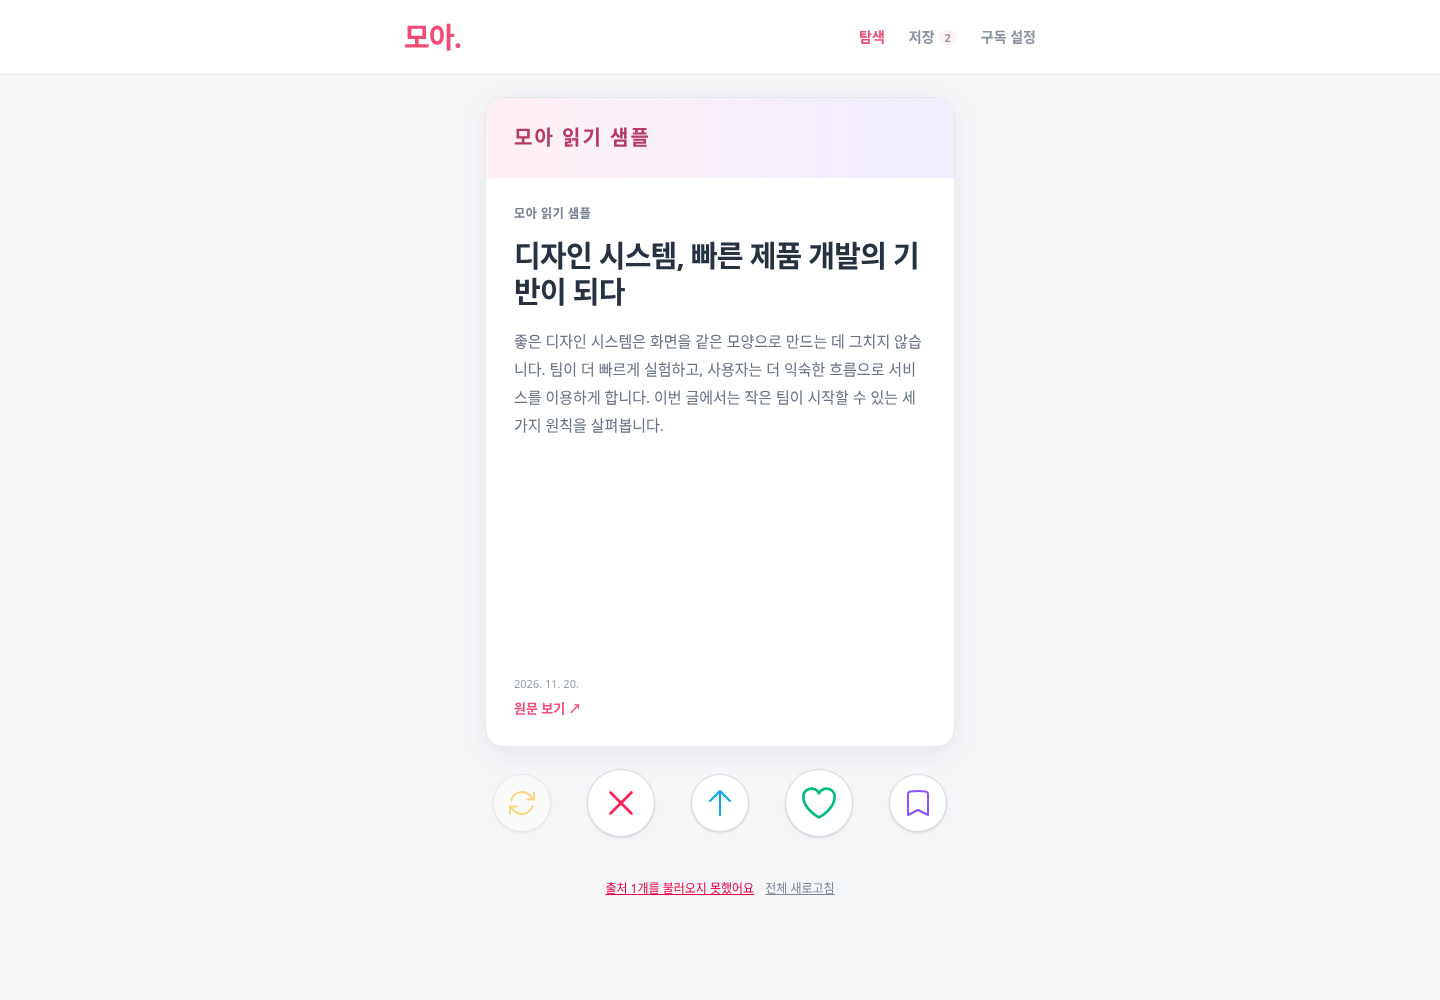
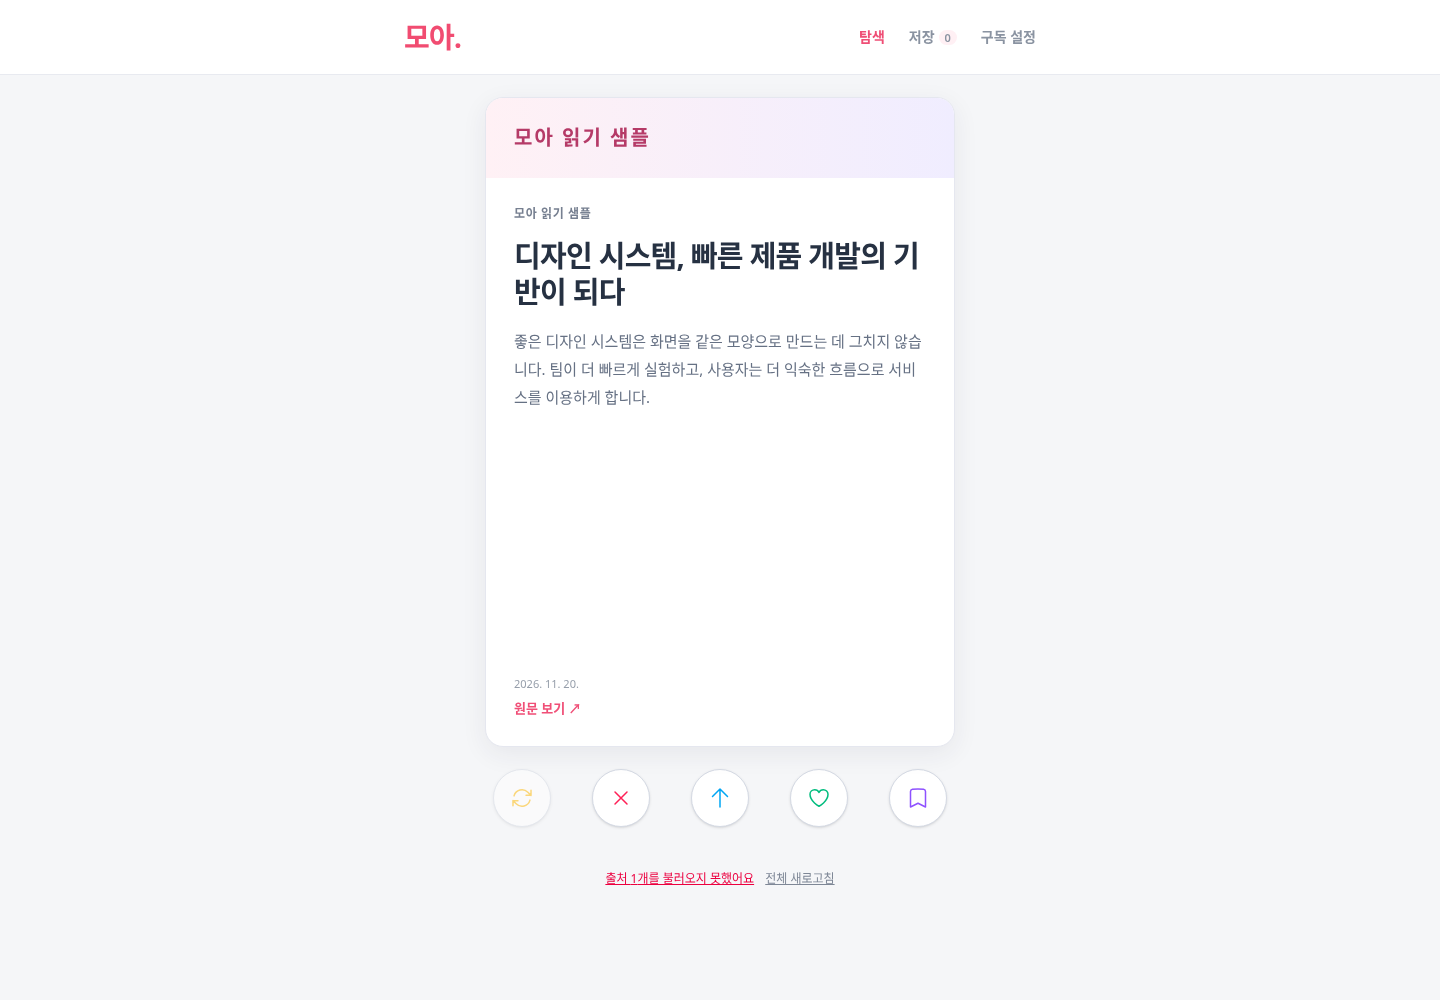
fix: align reader action sizes and document UI audit

diff --git a/apps/web/src/components/story-card.tsx b/apps/web/src/components/story-card.tsx
@@ -219,7 +219,6 @@ export function StoryCard() {
             icon: <XMarkIcon />,
             disabled: !story,
             color: "text-rose-500",
-            large: true,
             run: () => act("skip"),
           },
           {
@@ -234,7 +233,6 @@ export function StoryCard() {
             icon: liked ? <HeartSolid /> : <HeartIcon />,
             disabled: !story,
             color: liked ? "bg-emerald-500 text-white" : "text-emerald-500",
-            large: true,
             pressed: liked,
             run: () => {
               interest();
@@ -259,7 +257,7 @@ export function StoryCard() {
             disabled={a.disabled}
             onClick={a.run}
             variant="outline"
-            className={`size-12 shrink-0 rounded-full p-3 shadow-sm sm:size-[58px] ${a.large ? "size-[60px] sm:size-[68px]" : ""} ${a.color}`}
+            className={`size-12 min-w-0 shrink-0 rounded-full p-2 shadow-sm sm:size-[58px] sm:p-3 [&_svg]:size-6 ${a.color}`}
           >
             {a.icon}
           </Button>

diff --git a/apps/web/docs/review/issue-2/ui-design-audit.md b/apps/web/docs/review/issue-2/ui-design-audit.md
@@ -1,0 +1,54 @@
+# UI design audit
+
+Reviewed 2026-11-21 against the [complete visible catalog](https://www.uidesign.tips/ui-tips): **39 cards, 37 unique destination URLs, 38 distinct pieces of advice**. The alignment tip appears twice. “Visually Distinguish Elements” incorrectly links to Social Login; its advice is assessed from the catalog and linked there below. All 37 destinations were opened; relevant individual text was read. The retrieved index exposes no pagination/load-more control. Its “100+” marketing claim does not establish 100 audited tips; unlisted material is outside this inventory.
+
+These are contextual design heuristics, not universal requirements or an accessibility certification. **Meets** means the applicable advice is supported by inspected evidence; **Partial** identifies a remaining limitation; **Fails** identifies a concrete gap; **N/A** identifies an absent feature or unsuitable context.
+
+Evidence keys: **R** = [reader component](../../../src/components/story-card.tsx); **N** = [navigation](../../../src/components/shell.tsx); **S** = [settings](../../../src/app/settings/page.tsx); **L** = [saved list](../../../src/app/saved/page.tsx); **C** = [theme](../../../src/app/reader.css); **A** = [selected Blue v4 proposal](../../superpowers/specs/2026-11-21-reader-visual-refresh-proposal.md) and its [reference captures](README.md#blue-v4-design-proposal). A's local prototype is `.superpowers/brainstorm/114014-1795240300/content/reader-blue-redesign-v4.html`. The screenshot index separates implemented pink UI from A, which is **not integrated**. Refreshed implemented reader captures show the equal-size correction.
+
+| Catalog advice                                                                                            | Implemented | A prototype | Evidence / remaining issue                                                        |
+| --------------------------------------------------------------------------------------------------------- | ----------- | ----------- | --------------------------------------------------------------------------------- |
+| [Social Login](https://www.uidesign.tips/ui-tips/social-login)                                            | N/A         | N/A         | No authentication.                                                                |
+| [Design Better Menus](https://www.uidesign.tips/ui-tips/better-menus)                                     | Partial     | Meets       | N: text-only; A: icons, labels, selected route.                                   |
+| [The Gutenberg Principle](https://www.uidesign.tips/ui-tips/gutenburg-principle)                          | N/A         | N/A         | Sequential reader, not a conversion hero.                                         |
+| [Delete Modal](https://www.uidesign.tips/ui-tips/quick-ui-fixes)                                          | N/A         | N/A         | No deletion modal.                                                                |
+| [Align Uneven Elements / How to Align Uneven Items](https://www.uidesign.tips/ui-tips/align-unever-items) | Meets       | Meets       | R: five equal responsive circles after correction; A already equal.               |
+| [De-emphasize Dangerous Actions](https://www.uidesign.tips/ui-tips/de-emphasize-dangerous-actions)        | N/A         | N/A         | No irreversible deletion; skip supports undo.                                     |
+| [Always Have A CTA](https://www.uidesign.tips/ui-tips/hero-section-cta-1)                                 | N/A         | N/A         | Landing-page conversion advice.                                                   |
+| [The Perfect Header](https://www.uidesign.tips/ui-tips/how-to-design-the-perfect-header)                  | Meets       | Meets       | R/S/A: bold, left-aligned headings above supporting copy.                         |
+| [Validate Deletion](https://www.uidesign.tips/ui-tips/how-to-validate-deletion)                           | N/A         | N/A         | No deletion feature.                                                              |
+| [Empty State With Templates](https://www.uidesign.tips/ui-tips/empty-state)                               | N/A         | N/A         | Feed reader; no document-creation template flow.                                  |
+| [Inform Users Beforehand](https://www.uidesign.tips/ui-tips/don-t-let-user-guess)                         | Partial     | Partial     | R lacks visible consequences; A labels omit advance/queue-tail behavior.          |
+| [Transparent Avatars 1](https://www.uidesign.tips/ui-tips/avatar-background-1)                            | N/A         | N/A         | No avatars.                                                                       |
+| [Transparent Avatars 2](https://www.uidesign.tips/ui-tips/avatar-background-2)                            | N/A         | N/A         | No cover/avatar overlap.                                                          |
+| [Consistent Border-Radius](https://www.uidesign.tips/ui-tips/border-radius-consistency)                   | N/A         | N/A         | No inset images; prescribed radius ratio is inapplicable.                         |
+| [Apply Brand Color](https://www.uidesign.tips/ui-tips/brand-colors)                                       | Partial     | Meets       | R: decorative gradient and competing accents; A reserves blue for actions/state.  |
+| [Distinguish Selected Items](https://www.uidesign.tips/ui-tips/distinguish-selected-items)                | Partial     | Partial     | N: color-only active route; A desktop adds background, mobile remains color-only. |
+| [Better Link Button](https://www.uidesign.tips/ui-tips/engaging-links)                                    | Meets       | Meets       | R/L/A: explicit original-reading links; S: action buttons.                        |
+| [Consistent Buttons](https://www.uidesign.tips/ui-tips/hero-section-consistency)                          | Partial     | Meets       | R now equal-sized without a single visual primary; A emphasizes Save.             |
+| [Direct Attention With Media](https://www.uidesign.tips/ui-tips/hero-section-cta-2)                       | N/A         | N/A         | No promotional/person imagery.                                                    |
+| [Prompt Users to Scroll](https://www.uidesign.tips/ui-tips/hero-section-prompt-scroll)                    | N/A         | N/A         | Landing-page continuation advice; article overflow is separate.                   |
+| [Highlight Best Offer](https://www.uidesign.tips/ui-tips/highlight-popular-plan)                          | N/A         | N/A         | No pricing.                                                                       |
+| [Avoid Fullwidth Paragraphs](https://www.uidesign.tips/ui-tips/line-width)                                | Meets       | Meets       | R capped at 470px; A reader capped at 540px before insets.                        |
+| [Make Cards Look Clickable](https://www.uidesign.tips/ui-tips/make-cards-look-clickable-vol-2)            | Meets       | Meets       | R/L/A show original-reading links; A card itself is not clickable.                |
+| [Self-Explanatory Inputs](https://www.uidesign.tips/ui-tips/make-inputs-self-explanatory)                 | Meets       | Meets       | S/A: RSS/Atom label and example URL.                                              |
+| [Pick Correct Element](https://www.uidesign.tips/ui-tips/number-input-1)                                  | Meets       | Meets       | S/A use URL input for feed addresses.                                             |
+| [Enhance Hierarchy](https://www.uidesign.tips/ui-tips/quick-ui-fixes-1)                                   | Partial     | Partial     | R/A distinguish titles/actions; small muted metadata needs contrast review.       |
+| [Responsive Tooltips](https://www.uidesign.tips/ui-tips/responsive-tooltips)                              | Fails       | N/A         | R relies on native title for sighted icon explanation; no tap help.               |
+| [Choose Chart Types](https://www.uidesign.tips/ui-tips/right-chart-type)                                  | N/A         | N/A         | No charts.                                                                        |
+| [Padding on Rounded Cards](https://www.uidesign.tips/ui-tips/round-card-padding)                          | Meets       | Meets       | Reader captures show comfortable text insets; no crowding.                        |
+| [Visually Distinguish Elements](https://www.uidesign.tips/ui-tips)                                        | Partial     | Partial     | R icons differ beyond color; N and A mobile navigation retain color-only state.   |
+| [Support Icons With Labels](https://www.uidesign.tips/ui-tips/support-icons-with-text)                    | Fails       | Meets       | R: aria/title only; A: visible action labels.                                     |
+| [Use Labels Cleverly 2](https://www.uidesign.tips/ui-tips/use-labels-cleverly-2)                          | N/A         | N/A         | No color picker.                                                                  |
+| [Use Labels Cleverly 1](https://www.uidesign.tips/ui-tips/use-labels-cleverly)                            | N/A         | N/A         | No formatting/value-preview selector.                                             |
+| [Display Useful Shortcuts](https://www.uidesign.tips/ui-tips/users-hate-surprises-1)                      | Fails       | N/A         | R implements arrows and undo without a visible legend; A has no shortcuts.        |
+| [Users Hate Surprises](https://www.uidesign.tips/ui-tips/users-hate-surprises)                            | Partial     | Partial     | Save advances; defer moves to tail. Visible copy does not explain both.           |
+| [Prioritize UX](https://www.uidesign.tips/ui-tips/ux-vs-conversions)                                      | Meets       | Meets       | Stable route order; no competing monetization navigation in inspected flows.      |
+| [Hack Visual Hierarchy](https://www.uidesign.tips/ui-tips/visual-hierarchy)                               | Partial     | Partial     | R/S/L/A: grouping works; faint small secondary text limits readability.           |
+| [Visually Separate Elements](https://www.uidesign.tips/ui-tips/visually-seperate-elements-1)              | Meets       | Meets       | N and A navigation use whitespace; list separators organize repeated rows.        |
+
+User constraints take precedence over these tips. The implemented app still fails the requested Blue direction: C/N/R/S contain pink, and R adds a decorative source gradient. Implemented S/L place route content directly on gray. A removes that source decoration and places reader/saved/settings content within white surfaces. A's `.route-surface` matches the supplied `templates/radiant.zip` login surface (`rounded-xl bg-white shadow-md ring-1 ring-black/5`, `p-7 sm:p-11`); its saved source/title/date order follows `templates/spotlight.zip` articles. Those archive members were inspected read-only. Product controls reuse installed `src/components/ui/{button,input,alert}.tsx`; these facts do not mean A has been integrated into the product.
+
+Pending priorities: **P1** integrate the already selected A composition and blue palette, then verify all routes/states; **P1** show meaningful action labels, including save-and-advance and defer-to-tail; **P1** improve small-text contrast and non-color active-state cues. Declared implemented secondary colors produce approximately 2.70–3.49:1 against their backgrounds; screenshots are not a formal accessibility test. **P2** display existing keyboard shortcuts near actions. No login, chart, pricing, template-onboarding, decorative media, or tooltip system is proposed merely to satisfy unrelated advice.
+
+This audit changes documentation only. It does not claim all tips pass, test real feeds, or validate every device, focus path, zoom level, or assistive technology.

diff --git a/apps/web/docs/review/issue-2/README.md b/apps/web/docs/review/issue-2/README.md
@@ -1,5 +1,7 @@
 # Issue 2 reader visual review
 
+See the [UI design audit](ui-design-audit.md) for the complete visible UI Tips inventory, findings, and remaining work.
+
 The screenshots below document the current reader UI and a separate visual refresh proposal. Images prefixed `implemented-` come from the running application on this branch. Images prefixed `design-a-` come from the standalone Blue v4 proposal at `.superpowers/brainstorm/114014-1795240300/content/reader-blue-redesign-v4.html`; they are design references, not shipped UI.
 
 The live app screenshots use synthetic Korean stories stored in the browser's `moa-reader-v1` state. Requests to `/api/feed` were intercepted locally and returned a controlled sample error for the failure view. No Gmail account, personal feed, or real subscription was used. The prototype's settings failure and saved states are its own interactive sample data.
